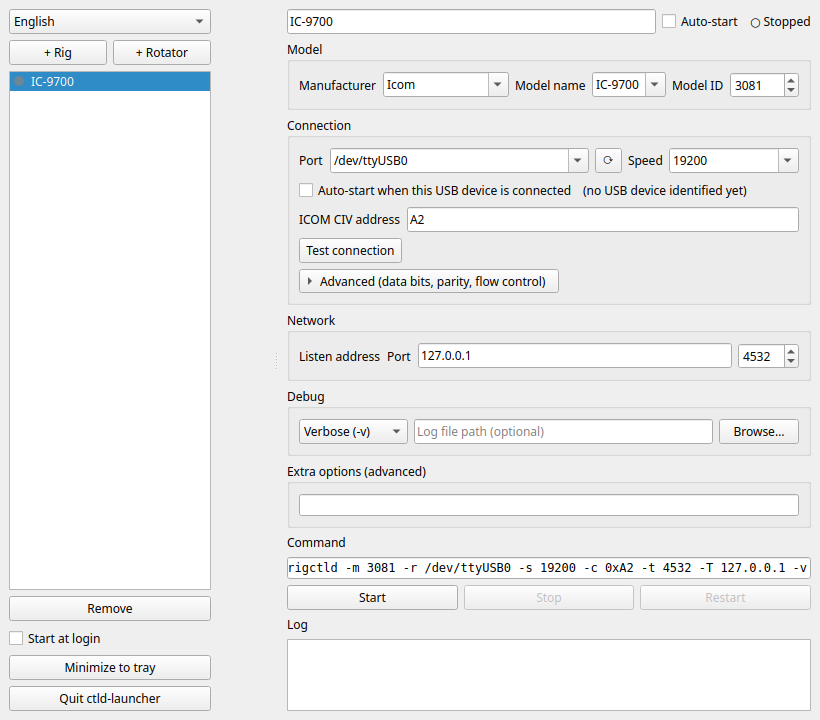
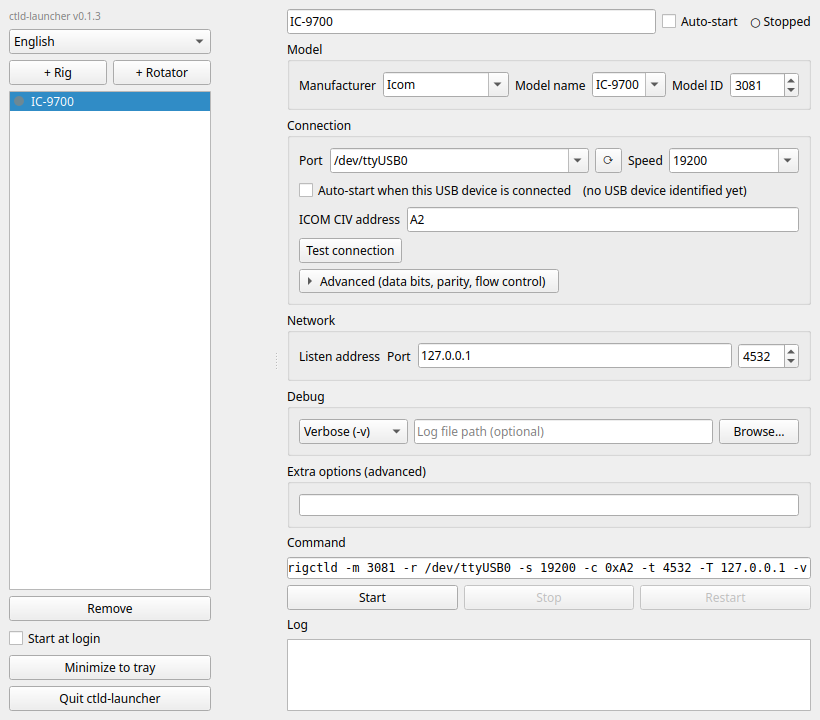
Show the app version in the sidebar
Adds a small "ctld-launcher vX.Y.Z" label at the top of the sidebar, since
there was previously no way to tell which version was actually installed.

version.py resolves the version the same way as the sibling FBSAT59 project:
a version.txt bundled by PyInstaller (written by build-release.yml from the
pushed git tag) when frozen, falling back to `git describe` in a source
checkout and importlib.metadata for a plain pip install, with a hardcoded
fallback so this never crashes the app. build-release.yml now writes
src/version.txt before running PyInstaller on all three platforms, and
ctld-launcher.spec bundles it.

Changed region(s): [[0.0, 0.0, 0.2744, 0.1528]]

diff --git a/tests/test_version.py b/tests/test_version.py
@@ -1,0 +1,68 @@
+from __future__ import annotations
+
+import subprocess
+import sys
+
+from ctld_launcher import version as version_module
+
+
+def test_get_version_prefers_frozen_bundle(tmp_path, monkeypatch) -> None:  # type: ignore[no-untyped-def]
+    (tmp_path / "version.txt").write_text("1.2.3", encoding="utf-8")
+    monkeypatch.setattr(sys, "frozen", True, raising=False)
+    monkeypatch.setattr(sys, "_MEIPASS", str(tmp_path), raising=False)
+
+    assert version_module.get_version() == "1.2.3"
+
+
+def test_get_version_frozen_bundle_missing_file_falls_through(tmp_path, monkeypatch) -> None:  # type: ignore[no-untyped-def]
+    monkeypatch.setattr(sys, "frozen", True, raising=False)
+    monkeypatch.setattr(sys, "_MEIPASS", str(tmp_path), raising=False)
+    monkeypatch.setattr(version_module, "_from_git_describe", lambda: None)
+    monkeypatch.setattr(version_module, "_from_installed_metadata", lambda: None)
+
+    assert version_module.get_version() == version_module._FALLBACK_VERSION
+
+
+def test_git_describe_parses_exact_tag(monkeypatch) -> None:  # type: ignore[no-untyped-def]
+    monkeypatch.setattr(sys, "frozen", False, raising=False)
+
+    def fake_run(*args, **kwargs):  # type: ignore[no-untyped-def]
+        return subprocess.CompletedProcess(args, 0, stdout="v0.1.3-0-gf1dd166\n")
+
+    monkeypatch.setattr(version_module.subprocess, "run", fake_run)
+
+    assert version_module._from_git_describe() == "0.1.3"
+
+
+def test_git_describe_parses_commits_since_tag(monkeypatch) -> None:  # type: ignore[no-untyped-def]
+    def fake_run(*args, **kwargs):  # type: ignore[no-untyped-def]
+        return subprocess.CompletedProcess(args, 0, stdout="v0.1.3-4-gf1dd166\n")
+
+    monkeypatch.setattr(version_module.subprocess, "run", fake_run)
+
+    assert version_module._from_git_describe() == "0.1.3.dev4"
+
+
+def test_git_describe_returns_none_when_git_unavailable(monkeypatch) -> None:  # type: ignore[no-untyped-def]
+    def fake_run(*args, **kwargs):  # type: ignore[no-untyped-def]
+        raise FileNotFoundError("git not found")
+
+    monkeypatch.setattr(version_module.subprocess, "run", fake_run)
+
+    assert version_module._from_git_describe() is None
+
+
+def test_installed_metadata_strips_local_version_segment(monkeypatch) -> None:  # type: ignore[no-untyped-def]
+    monkeypatch.setattr(
+        version_module, "_installed_version", lambda _name: "0.1.dev20+gc16b80a5e.d20260728"
+    )
+
+    assert version_module._from_installed_metadata() == "0.1.dev20"
+
+
+def test_get_version_falls_back_to_hardcoded_default(monkeypatch) -> None:  # type: ignore[no-untyped-def]
+    monkeypatch.setattr(sys, "frozen", False, raising=False)
+    monkeypatch.setattr(version_module, "_from_git_describe", lambda: None)
+    monkeypatch.setattr(version_module, "_from_installed_metadata", lambda: None)
+
+    assert version_module.get_version() == version_module._FALLBACK_VERSION

diff --git a/src/ctld_launcher/version.py b/src/ctld_launcher/version.py
@@ -1,0 +1,73 @@
+"""Application version string, shown in the UI and window title.
+
+Resolution order (same pattern as the sibling FBSAT59 project):
+  1. version.txt bundled by PyInstaller — written by build-release.yml from
+     the pushed git tag before pyinstaller runs, read back via sys._MEIPASS
+     (the frozen-bundle data root; see hamlib_locator.py/i18n.py for the
+     same pattern). This is the path real end-user installs take.
+  2. `git describe` — accurate for a source/dev checkout.
+  3. importlib.metadata — accurate for a `pip install`, editable or not.
+  4. Hardcoded fallback so the app never crashes over a missing version.
+"""
+
+from __future__ import annotations
+
+import subprocess
+import sys
+from importlib.metadata import PackageNotFoundError
+from importlib.metadata import version as _installed_version
+from pathlib import Path
+
+_FALLBACK_VERSION = "0.0.0-dev"
+
+
+def _from_frozen_bundle() -> str | None:
+    if not getattr(sys, "frozen", False):
+        return None
+    version_file = Path(getattr(sys, "_MEIPASS", "")) / "version.txt"
+    try:
+        text = version_file.read_text(encoding="utf-8").strip()
+    except OSError:
+        return None
+    return text or None
+
+
+def _from_git_describe() -> str | None:
+    try:
+        result = subprocess.run(  # noqa: S603, S607
+            ["git", "describe", "--tags", "--long"],
+            capture_output=True,
+            text=True,
+            timeout=3,
+            cwd=Path(__file__).resolve().parent,
+        )
+    except (OSError, subprocess.SubprocessError):
+        return None
+    if result.returncode != 0:
+        return None
+    # "v0.1.3-4-gf1dd166" -> tag "0.1.3", 4 commits since
+    parts = result.stdout.strip().split("-")
+    if len(parts) < 3:
+        return None
+    tag = "-".join(parts[:-2]).lstrip("v")
+    try:
+        count = int(parts[-2])
+    except ValueError:
+        return None
+    return tag if count == 0 else f"{tag}.dev{count}"
+
+
+def _from_installed_metadata() -> str | None:
+    try:
+        ver = _installed_version("ctld-launcher")
+    except PackageNotFoundError:
+        return None
+    return ver.split("+")[0]
+
+
+def get_version() -> str:
+    for resolver in (_from_frozen_bundle, _from_git_describe, _from_installed_metadata):
+        version = resolver()
+        if version:
+            return version
+    return _FALLBACK_VERSION

diff --git a/src/ctld_launcher/ui/main_window.py b/src/ctld_launcher/ui/main_window.py
@@ -45,6 +45,7 @@ from ctld_launcher.core.profile import Profile, ProfileKind, ProfileStore
 from ctld_launcher.core.serial_ports import list_serial_ports
 from ctld_launcher.core.usb_watch import UsbHotplugTracker, UsbIdentity, identity_for_port
 from ctld_launcher.i18n import _, get_language, set_language
+from ctld_launcher.version import get_version
 
 USB_POLL_INTERVAL_MS = 2000
 
@@ -188,6 +189,10 @@ class MainWindow(QMainWindow):
     def _build_sidebar(self) -> QWidget:
         container = QWidget()
         layout = QVBoxLayout(container)
+
+        self._version_label = QLabel(f"ctld-launcher v{get_version()}")
+        self._version_label.setStyleSheet("color: gray; font-size: 10px;")
+        layout.addWidget(self._version_label)
 
         # Language names are deliberately NOT translated via _() — each
         # option must always read in its own language, or a user who picks

diff --git a/src/ctld_launcher/main.py b/src/ctld_launcher/main.py
@@ -8,6 +8,7 @@ from ctld_launcher.core.autostart import MINIMIZED_FLAG
 from ctld_launcher.i18n import detect_system_language, set_language
 from ctld_launcher.ui.main_window import MainWindow
 from ctld_launcher.ui.tray import TrayIcon
+from ctld_launcher.version import get_version
 
 
 def should_show_on_startup(argv: list[str]) -> bool:
@@ -24,6 +25,8 @@ def should_show_on_startup(argv: list[str]) -> bool:
 def main() -> None:
     app = QApplication(sys.argv)
     app.setQuitOnLastWindowClosed(False)
+    app.setApplicationName("ctld-launcher")
+    app.setApplicationVersion(get_version())
 
     # Must run before any widget is built: ui/main_window.py's translatable
     # string lists (e.g. _debug_levels()) are evaluated lazily inside

diff --git a/tests/test_main_window.py b/tests/test_main_window.py
@@ -66,6 +66,14 @@ def test_main_window_title(tmp_path, qtbot) -> None:  # type: ignore[no-untyped-
     assert window.windowTitle() == "ctld-launcher"
 
 
+def test_version_label_shown_near_top_of_sidebar(tmp_path, qtbot) -> None:  # type: ignore[no-untyped-def]
+    from ctld_launcher.version import get_version
+
+    window = _make_window(tmp_path, qtbot)
+    assert get_version() in window._version_label.text()
+    assert "ctld-launcher" in window._version_label.text()
+
+
 def test_add_rig_profile_appears_in_list_and_store(tmp_path, qtbot) -> None:  # type: ignore[no-untyped-def]
     window = _make_window(tmp_path, qtbot)
     window._add_profile(ProfileKind.RIG)
